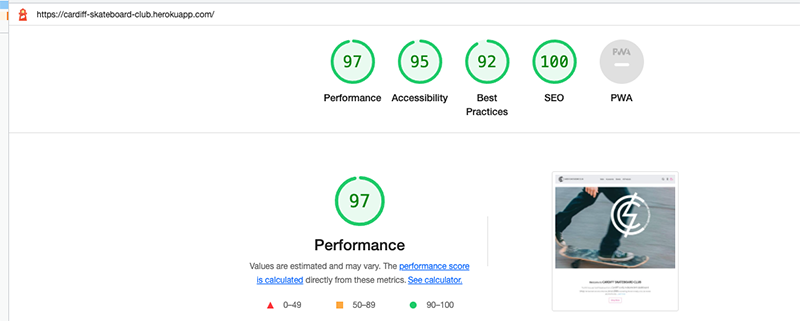
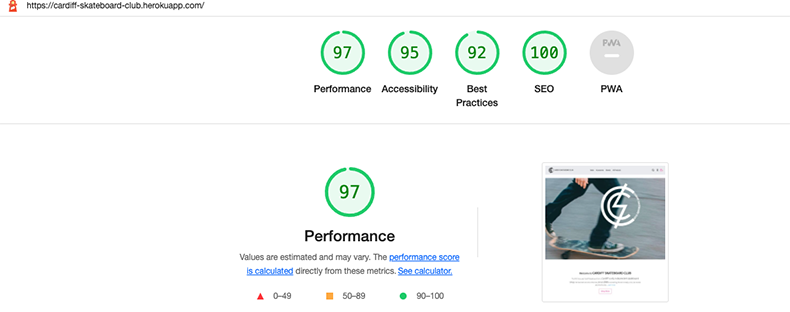
Ammended padding on top of header container

diff --git a/static/css/base.css b/static/css/base.css
@@ -271,9 +271,11 @@ a:hover {
 
 
   /* --- Base template --- */
-/* .banner-text{
-    font-size: 11px;
-} */
+
+.main-logo-link{
+    width: 50px;
+    height: 50px;
+}
 
 .main-nav-link{
     background-color: white;
@@ -305,9 +307,13 @@ a:hover {
     color:rgb(245, 61, 162);
 }
 
+/* .search-bar-container {
+    opacity: 0;
+} */
+
 .search-bar {
-   width: 25%;
-}
+    width: 25%;
+ }
 
 .nav-menu a {
     color: black !important;
@@ -515,31 +521,17 @@ a:hover {
 }
 
 
-/* fixed top navbar only on medium and up */
-/* @media (min-width: 992px) {
-    .fixed-top-desktop-only {
-        position: fixed;
-        top: 0;
-        right: 0;
-        left: 0;
-        z-index: 1030;
-    } */
-
 .header-container {
-    padding-top: 100px;
+    padding-top: 130px;
 }
 
-
-/* pad the top a bit when navbar is collapsed on mobile */
-@media (max-width: 768px) {
+/* Reduce the padding when navbar is collapsed on mobile */
+@media (max-width: 992px) {
     .header-container {
-        padding-top: 75px;
+        padding-top: 100px;
     }
 
-    /* body {
-        height: calc(100vh - 116px);
-    } */
-}
+
 
 /* reduce padding on the add review container on smaller screens to improve layout */
 @media (max-width: 400px) {
@@ -567,11 +559,9 @@ a:hover {
      }
 } 
 
-/* reduce logo image and center on mobile */
+/* center logo image on mobile */
 @media (max-width: 576px) {
     .main-logo-link {
-        width: 75%;
-        height: auto;
         float: right;
      }
 } 

diff --git a/cardiff_skateboard_club/settings.py b/cardiff_skateboard_club/settings.py
@@ -118,17 +118,17 @@ WSGI_APPLICATION = 'cardiff_skateboard_club.wsgi.application'
 # https://docs.djangoproject.com/en/3.2/ref/settings/#databases
 
 
-if 'DATABASE_URL' in os.environ:
-    DATABASES = {
-        'default': dj_database_url.parse(os.environ.get('DATABASE_URL'))
+# if 'DATABASE_URL' in os.environ:
+#     DATABASES = {
+#         'default': dj_database_url.parse(os.environ.get('DATABASE_URL'))
+#     }
+# else:
+DATABASES = {
+    'default': {
+        'ENGINE': 'django.db.backends.sqlite3',
+        'NAME': BASE_DIR / 'db.sqlite3',
     }
-else:
-    DATABASES = {
-        'default': {
-            'ENGINE': 'django.db.backends.sqlite3',
-            'NAME': BASE_DIR / 'db.sqlite3',
-        }
-    }
+}
 
 # Password validation
 # https://docs.djangoproject.com/en/3.2/ref/settings/#auth-password-validators
@@ -176,30 +176,30 @@ MEDIA_ROOT = os.path.join(BASE_DIR, 'media')
 
 # ---- Commented out while developing ----
 
-if 'USE_AWS' in os.environ:
+# if 'USE_AWS' in os.environ:
     # Cache control
-    AWS_S3_OBJECT_PARAMETERS = {
-        'Expires': 'Thu, 31 Dec 2099 20:00:00 GMT',
-        'CacheControl': 'max-age=94608000',
-    }
+AWS_S3_OBJECT_PARAMETERS = {
+    'Expires': 'Thu, 31 Dec 2099 20:00:00 GMT',
+    'CacheControl': 'max-age=94608000',
+}
 
 
 # Bucket Config
-AWS_STORAGE_BUCKET_NAME = 'cardiff-skateboard-club'
-AWS_S3_REGION_NAME = 'eu-west-2'
-AWS_ACCESS_KEY_ID = os.environ.get('AWS_ACCESS_KEY_ID')
-AWS_SECRET_ACCESS_KEY = os.environ.get('AWS_SECRET_ACCESS_KEY')
-AWS_S3_CUSTOM_DOMAIN = f'{AWS_STORAGE_BUCKET_NAME}.s3.amazonaws.com'
+# AWS_STORAGE_BUCKET_NAME = 'cardiff-skateboard-club'
+# AWS_S3_REGION_NAME = 'eu-west-2'
+# AWS_ACCESS_KEY_ID = os.environ.get('AWS_ACCESS_KEY_ID')
+# AWS_SECRET_ACCESS_KEY = os.environ.get('AWS_SECRET_ACCESS_KEY')
+# AWS_S3_CUSTOM_DOMAIN = f'{AWS_STORAGE_BUCKET_NAME}.s3.amazonaws.com'
 
 # # Static and media files
-STATICFILES_STORAGE = 'custom_storages.StaticStorage'
-STATICFILES_LOCATION = 'static'
-DEFAULT_FILE_STORAGE = 'custom_storages.MediaStorage'
-MEDIAFILES_LOCATION = 'media'
+# STATICFILES_STORAGE = 'custom_storages.StaticStorage'
+# STATICFILES_LOCATION = 'static'
+# DEFAULT_FILE_STORAGE = 'custom_storages.MediaStorage'
+# MEDIAFILES_LOCATION = 'media'
 
 # Override static and media URLs in production
-STATIC_URL = f'https://{AWS_S3_CUSTOM_DOMAIN}/{STATICFILES_LOCATION}/'
-MEDIA_URL = f'https://{AWS_S3_CUSTOM_DOMAIN}/{MEDIAFILES_LOCATION}/'
+# STATIC_URL = f'https://{AWS_S3_CUSTOM_DOMAIN}/{STATICFILES_LOCATION}/'
+# MEDIA_URL = f'https://{AWS_S3_CUSTOM_DOMAIN}/{MEDIAFILES_LOCATION}/'
 
 # Default primary key field type
 # https://docs.djangoproject.com/en/3.2/ref/settings/#default-auto-field

diff --git a/TESTING.md b/TESTING.md
@@ -406,6 +406,7 @@ I ran the tests in incognito mode with all extensions disabled to provide the be
 * Issues with Render Blocking - attributable to Bootstrap and FontAwesome.
 * Cache Policy issues on images. I have added a cache-policy setting in settings.py, but I believe that Lighthouse is flagging a server issue which is beyond my control.
 * HTTP/2 implementation advised (over HTTP/1.1). Time constraints and the scope of the project meant I was not able to address this particular issue.
+* I have also not considered issues related to Progressive Web Applications, as they fall outside the remit of this static web application. 
 
 ### Homepage        
 ![supporting screenshot](media/readme-images/home.png)     
